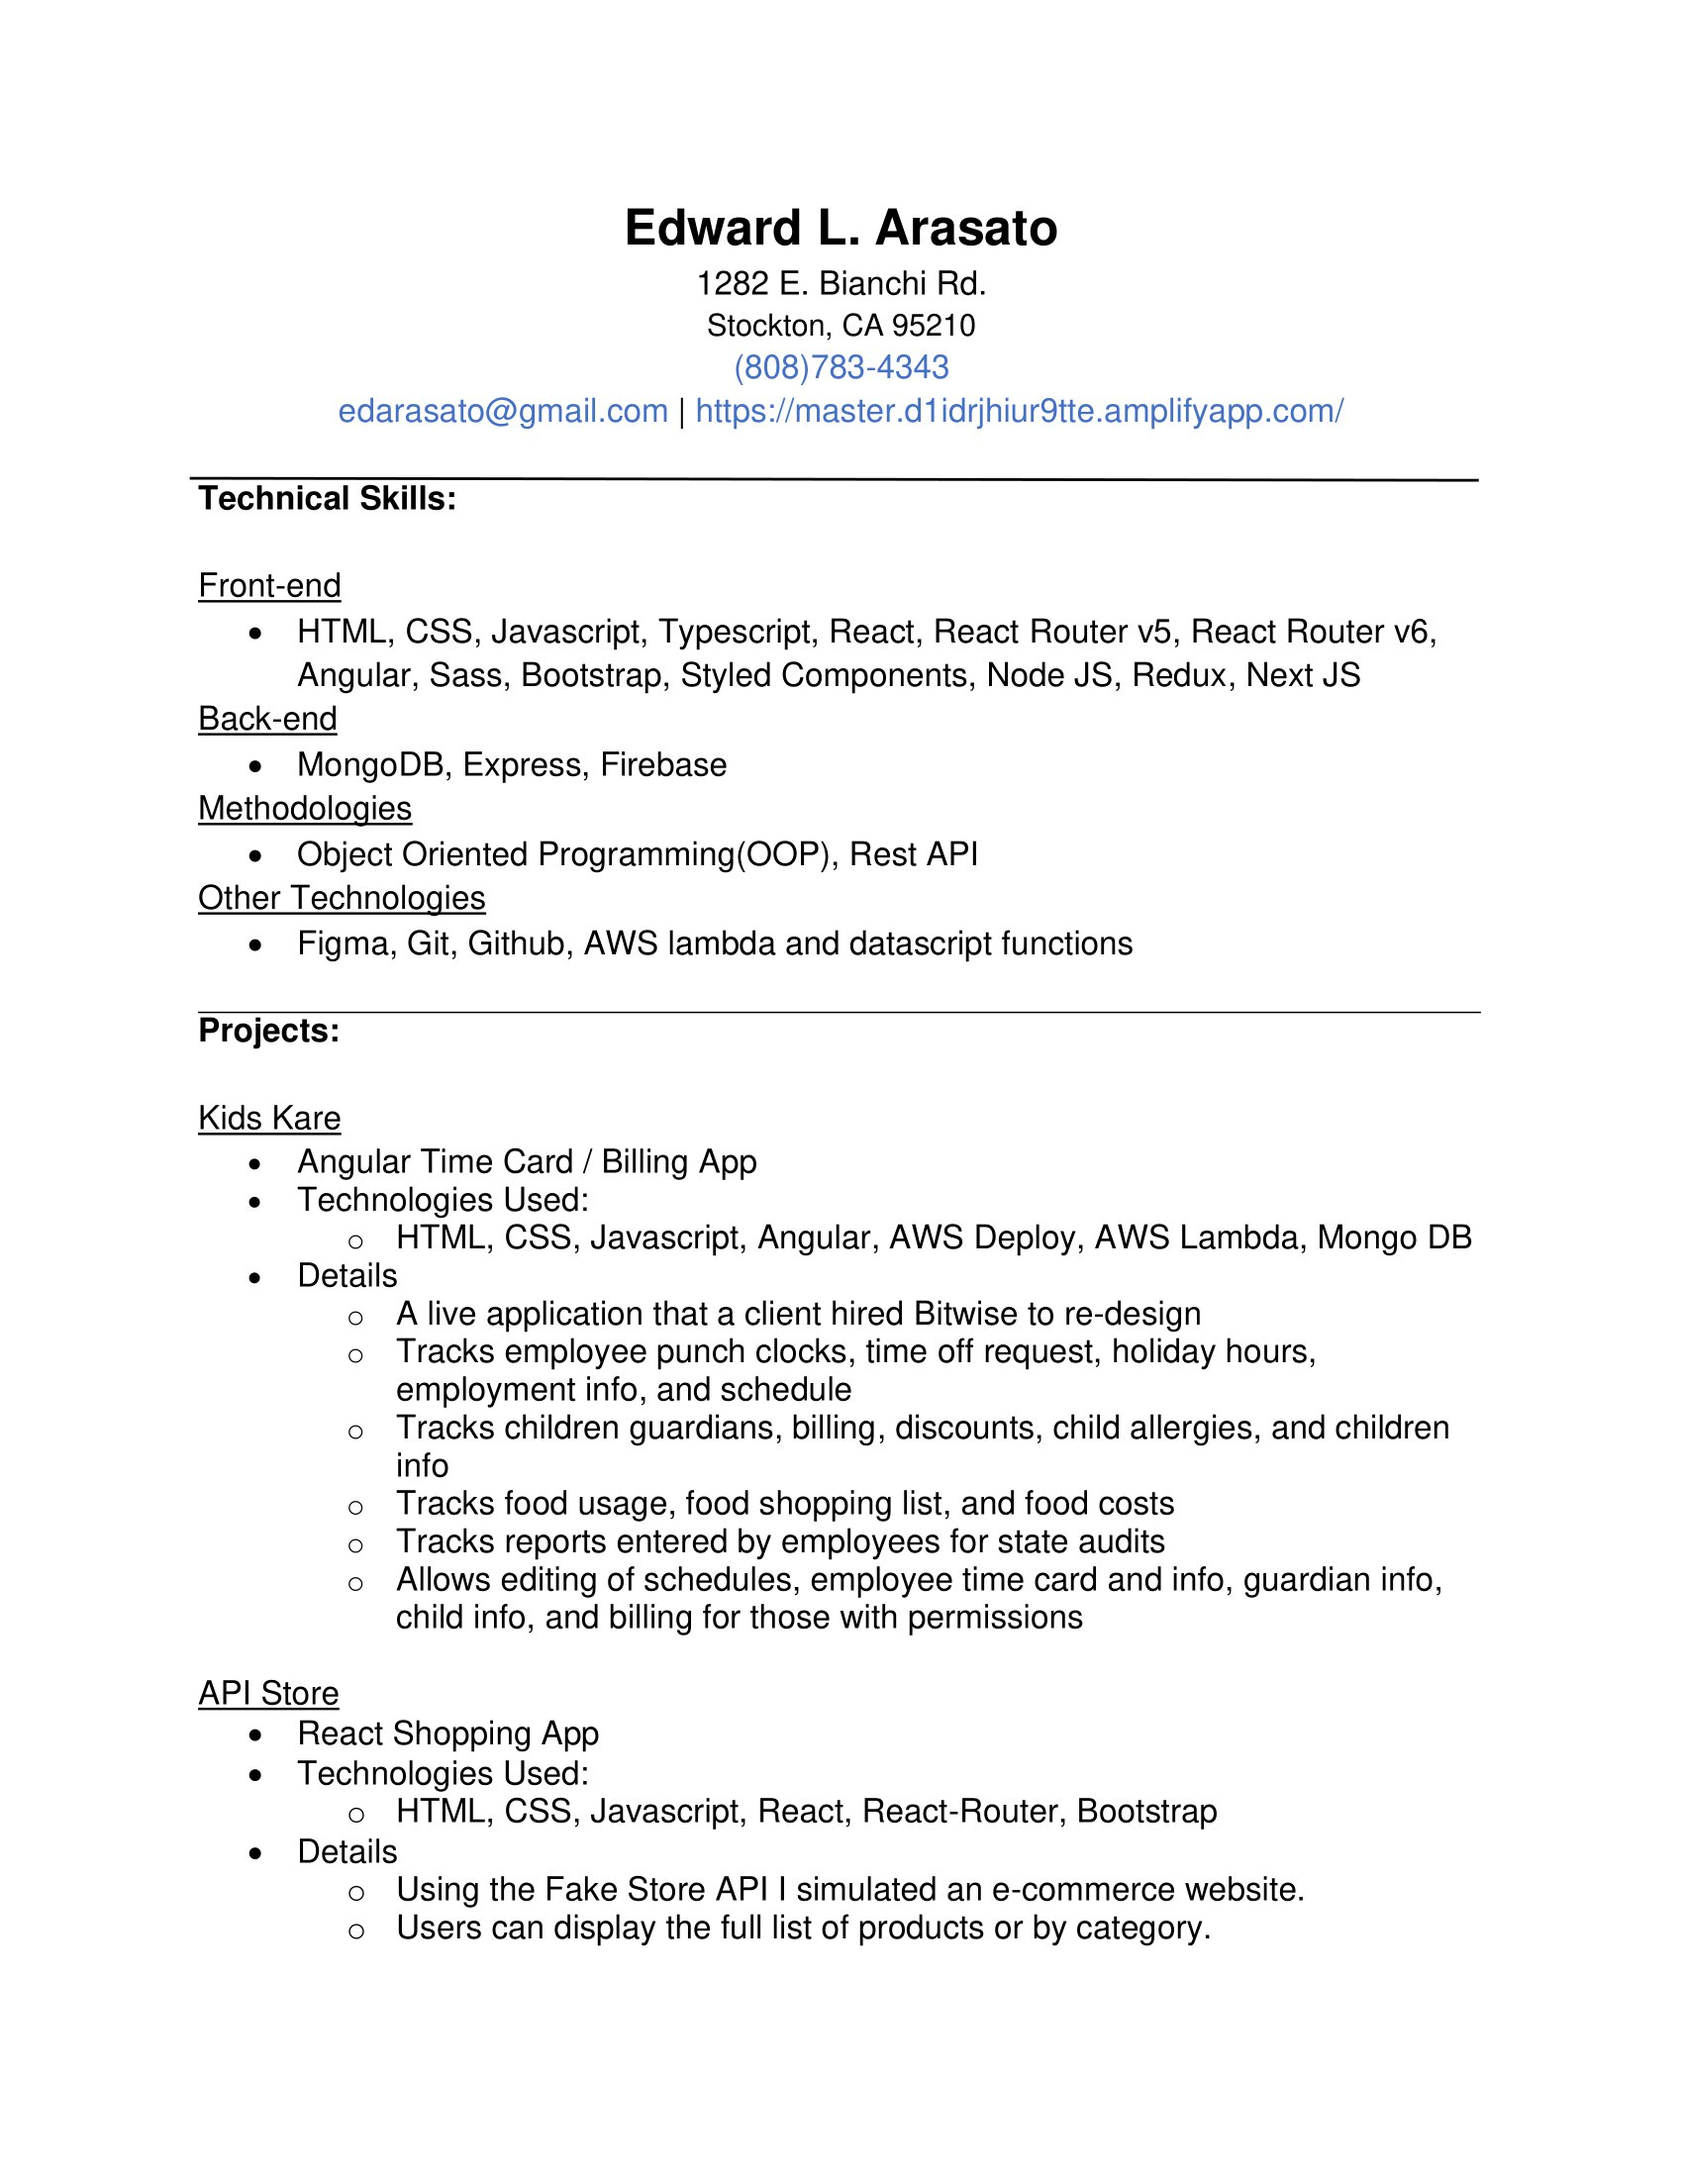
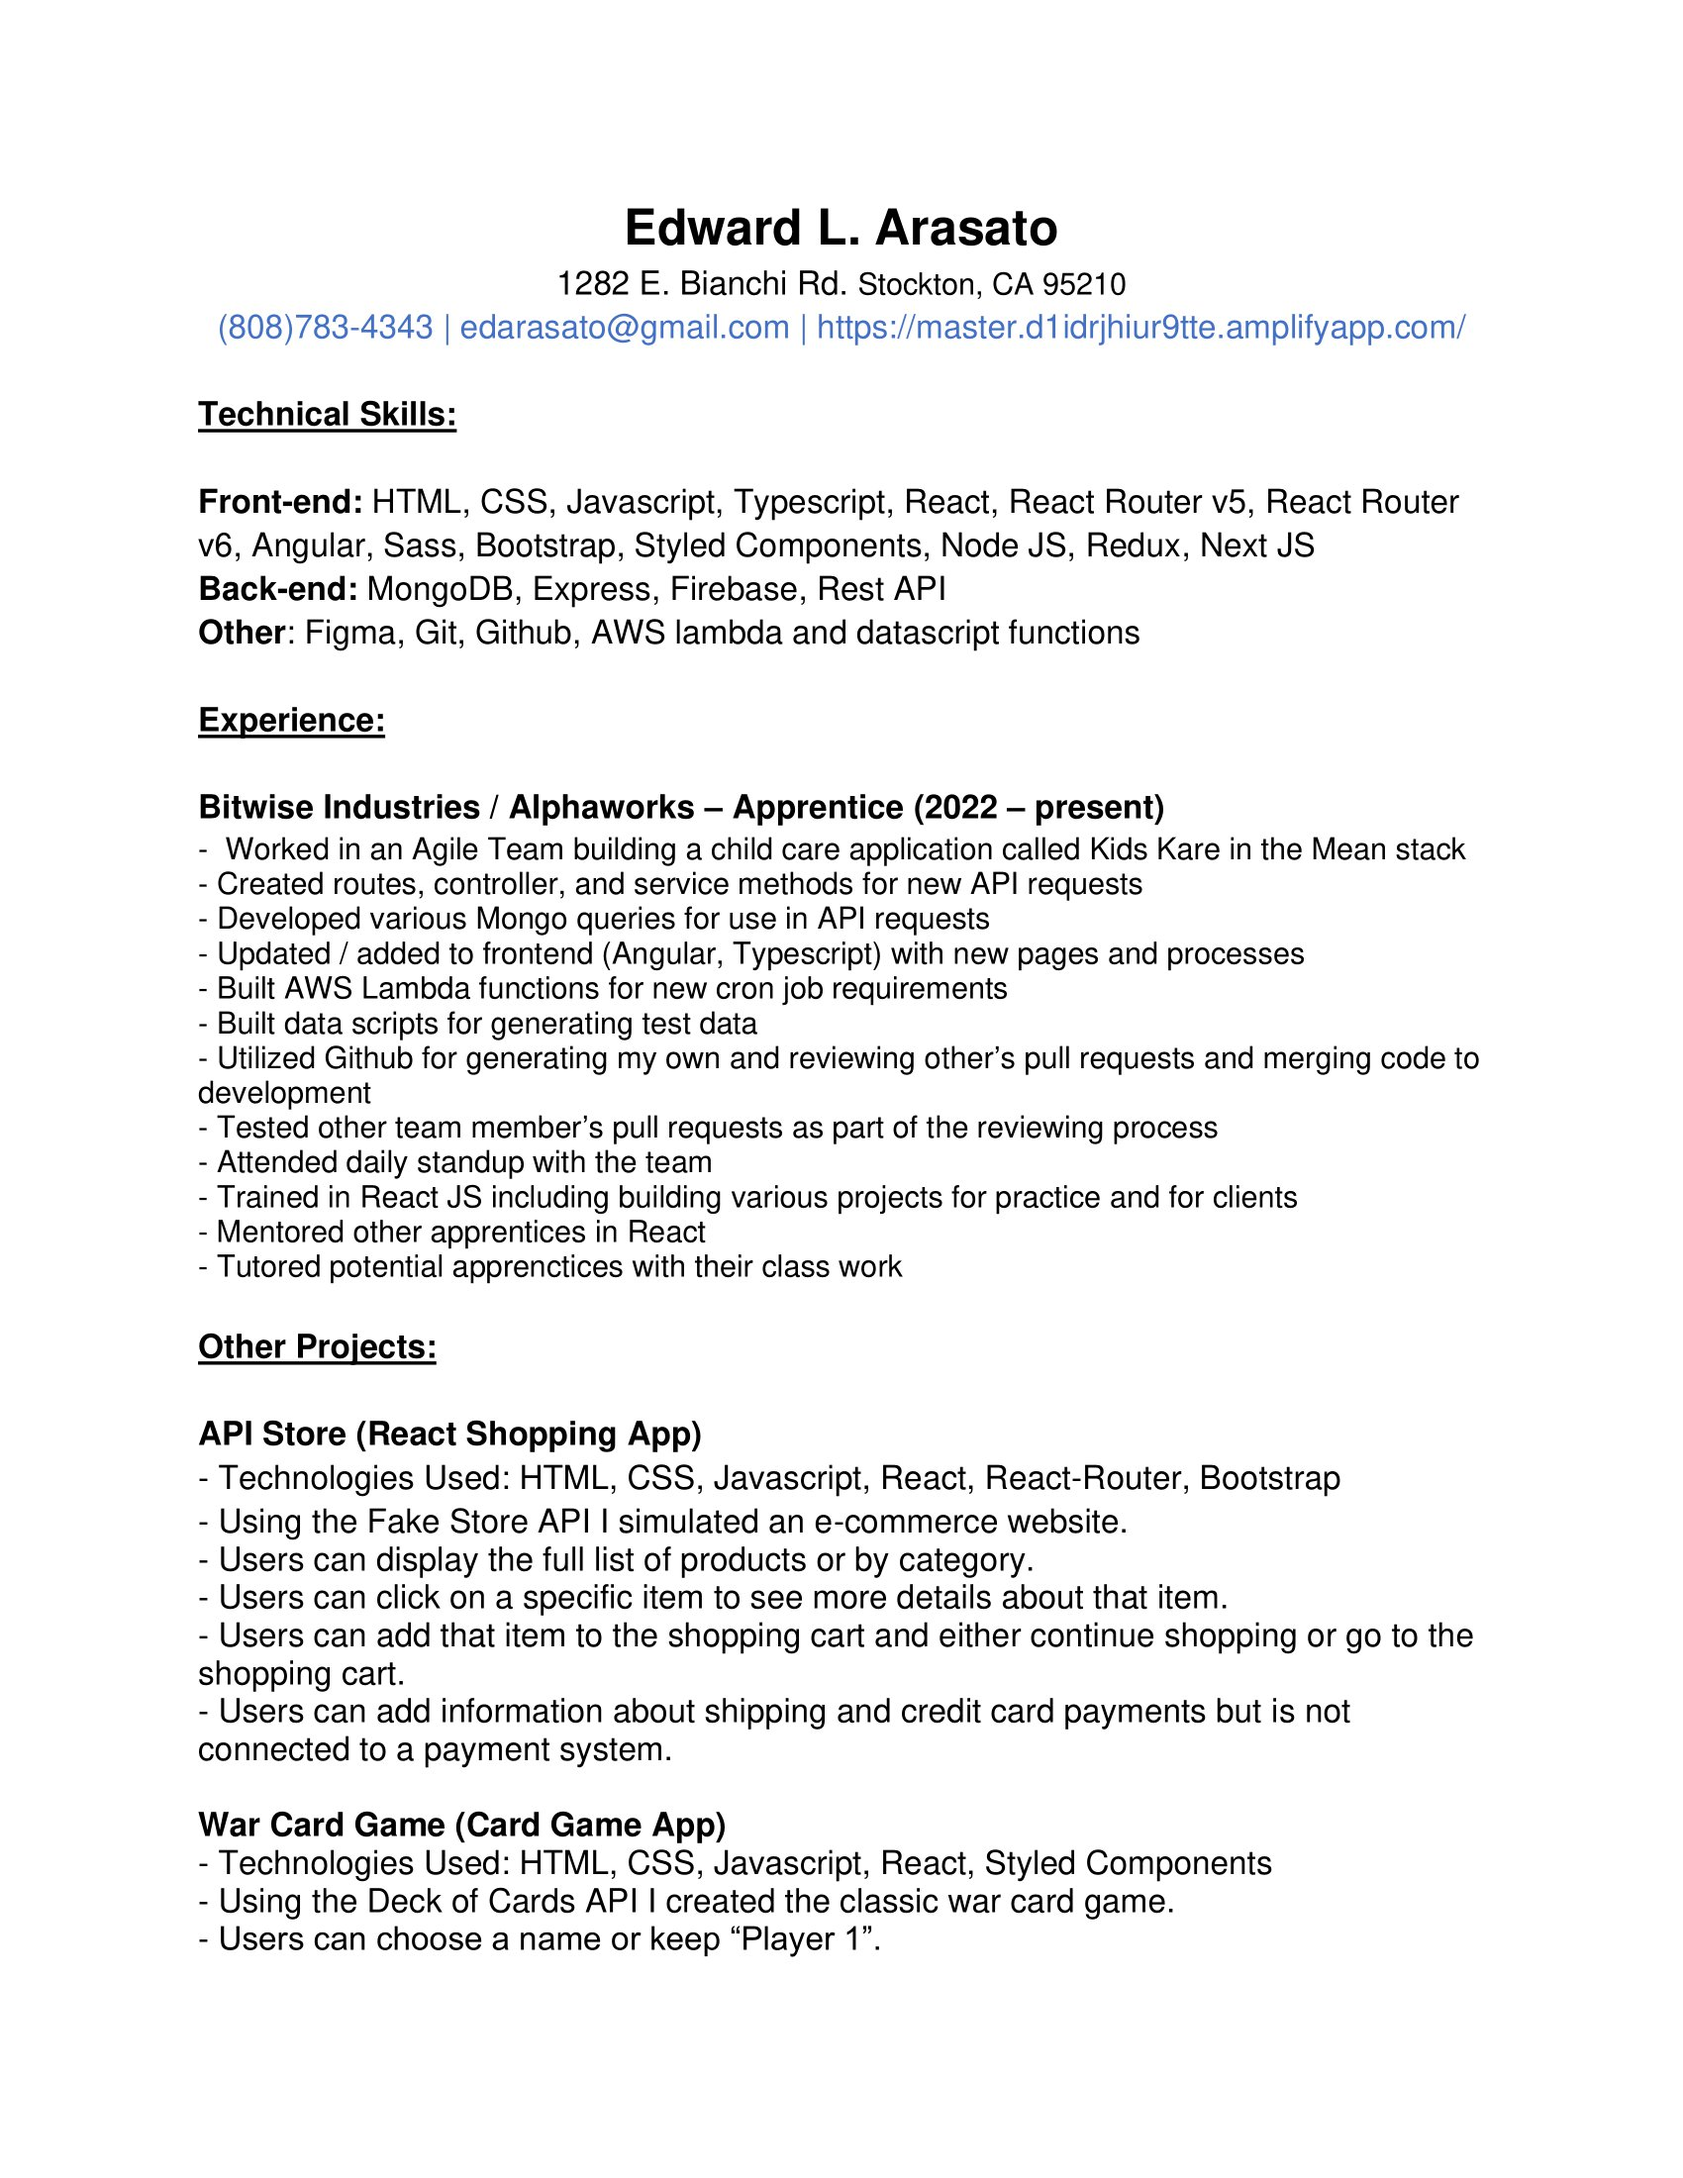
updated resume

Changed region(s): [[0.1247, 0.1236, 0.8729, 0.8964], [0.7482, 0.3709, 0.8729, 0.4018], [0.1247, 0.1236, 0.2494, 0.1545]]

diff --git a/src/components/resume/content/ResumeContent.js b/src/components/resume/content/ResumeContent.js
@@ -1,7 +1,6 @@
 //components
 import Resume_1 from "../../../assets/tech_resume-1.jpg";
 import Resume_2 from "../../../assets/tech_resume-2.jpg";
-import Resume_3 from "../../../assets/tech_resume-3.jpg";
 
 //styles
 import styles from "./ResumeContent.module.scss";
@@ -11,7 +10,7 @@ const ResumeContent = () => {
     <div className={styles.container}>
       <a
         className={styles.link}
-        href="https://drive.google.com/file/d/1DJtYVj3F-nBFl0Wd-UOlFOuc5E_bAyyU/view?usp=share_link"
+        href="https://drive.google.com/file/d/1hbSo3JipV319CtVSjah4_ge1eyghRWyC/view?usp=share_link"
         rel="noopener noreferrer"
         target="_blank"
         download
@@ -24,9 +23,6 @@ const ResumeContent = () => {
         </div>
         <div className={styles.imgContainer}>
           <img className={styles.resume} src={Resume_2} alt="Resume page 2" />
-        </div>
-        <div className={styles.imgContainer}>
-          <img className={styles.resume} src={Resume_3} alt="Resume page 3" />
         </div>
       </div>
     </div>

diff --git a/src/components/resume/content/ResumeContent.module.scss b/src/components/resume/content/ResumeContent.module.scss
@@ -19,7 +19,7 @@
     padding: 1rem;
 
     .imgContainer {
-      width: 30%;
+      width: 45%;
       .resume {
         width: 100%;
       }
